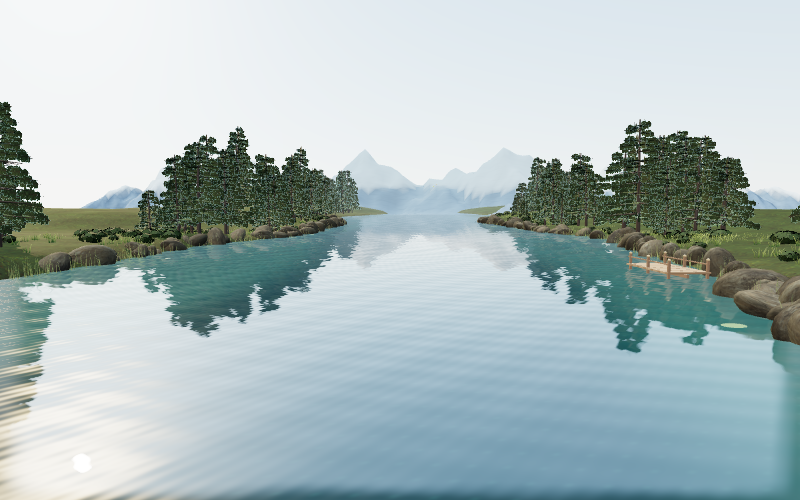
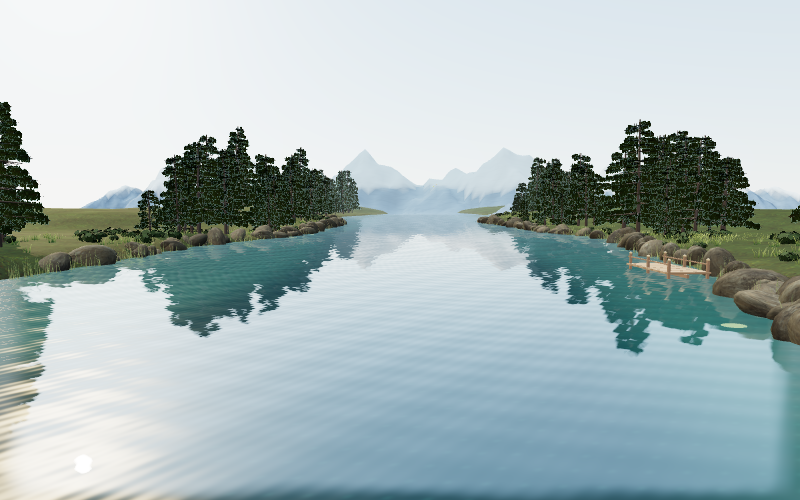
Reduce foliage overdraw and retain desktop profiling evidence hooks

diff --git a/src/scene/terrain.js b/src/scene/terrain.js
@@ -141,7 +141,7 @@ export function makeBarkTexture() {
 }
 
 export function makeNeedleGeometry(seed = 7, distant = false) {
-  // Crossed twig cards sample only the photographed pine twig in the CC0 atlas.
+  // Crossed twig cards sample the spruce spray in the original foliage atlas.
   // Hundreds of short branchlets create a porous volume, rather than long foliage fans.
   const positions = [], uvs = [], indices = [];
   const layers = distant ? 6 : 9, twigs = distant ? 2 : 4;
@@ -236,16 +236,19 @@ export function makeBroadleafTrunkGeometry() {
 export function makeLeafGeometry(drooping = false) {
   const positions = [], uvs = [], indices = [];
   const center = new THREE.Vector3(), normal = new THREE.Vector3(), tangent = new THREE.Vector3(), up = new THREE.Vector3(), yAxis = new THREE.Vector3(0, 1, 0);
-  for (let i = 0; i < 48; i++) {
+  // Each atlas card already contains a complete leafy spray. Layering 48 long
+  // willow cards per cluster shaded the same pixels repeatedly without adding
+  // a useful silhouette; fewer distributed sprays keep the crown readable.
+  for (let i = 0; i < (drooping ? 20 : 32); i++) {
     const a = noise(i, 11) * Math.PI * 2, b = Math.acos(2 * noise(i, 12) - 1);
     normal.set(Math.sin(b) * Math.cos(a), Math.cos(b), Math.sin(b) * Math.sin(a));
     center.copy(normal).multiplyScalar(.4 + noise(i, 13) * .65);
     if (drooping) {
-      center.y = .2 - noise(i, 19) * .9;
+      center.y = .45 - noise(i, 19) * 1.1;
       normal.y = .08; normal.normalize();
     }
-    tangent.crossVectors(normal, yAxis).normalize().multiplyScalar(.34);
-    up.crossVectors(tangent, normal).normalize().multiplyScalar(drooping ? .95 : .48);
+    tangent.crossVectors(normal, yAxis).normalize().multiplyScalar(.24 + noise(i, 23) * .2);
+    up.crossVectors(tangent, normal).normalize().multiplyScalar(drooping ? .55 + noise(i, 27) * .8 : .35 + noise(i, 27) * .25);
     const start = positions.length / 3;
     for (const [x, y] of [[-1, -1], [1, -1], [1, 1], [-1, 1]]) positions.push(center.x + tangent.x * x + up.x * y, center.y + tangent.y * x + up.y * y, center.z + tangent.z * x + up.z * y);
     uvs.push(0, 0, 1, 0, 1, 1, 0, 1); indices.push(start, start + 1, start + 2, start, start + 2, start + 3);

diff --git a/src/scene/Environment.jsx b/src/scene/Environment.jsx
@@ -74,7 +74,9 @@ function Shore({ config, width, low, medium, stage, reducedMotion }) {
     const materials = {
       land: new THREE.MeshStandardMaterial({ color: stage === 'forest-lake' ? '#8bb48b' : '#ffffff', vertexColors: true, map: groundColor, normalMap: groundNormal, normalScale: new THREE.Vector2(.6, .6), roughness: .97, side: THREE.DoubleSide }),
       mountain: new THREE.MeshStandardMaterial({ vertexColors: true, normalMap: rockNormal, normalScale: new THREE.Vector2(.8, .8), roughness: .99 }),
-      needles: new THREE.MeshStandardMaterial({ color: '#d2ddcb', map: config.pine ? needles : leaves, emissiveMap: config.pine ? needles : leaves, emissive: '#779851', emissiveIntensity: .08, alphaTest: .3, alphaToCoverage: true, roughness: .92, side: THREE.DoubleSide }),
+      // Thin matte foliage needs diffuse lighting, not a full per-pixel metal/
+      // roughness + environment BRDF on every overlapping transparent leaf.
+      needles: new THREE.MeshLambertMaterial({ color: '#d2ddcb', map: config.pine ? needles : leaves, emissiveMap: config.pine ? needles : leaves, emissive: '#779851', emissiveIntensity: .08, alphaTest: .3, alphaToCoverage: true, side: THREE.DoubleSide }),
       trunk: new THREE.MeshStandardMaterial({ map: barkColor, normalMap: barkNormal, normalScale: new THREE.Vector2(.55, .55), roughness: .95 }),
       rock: new THREE.MeshStandardMaterial({ color: '#bbbdb4', map: rockColor, normalMap: rockNormal, normalScale: new THREE.Vector2(.8, .8), roughness: .92 }),
       reed: new THREE.MeshStandardMaterial({ color: stage === 'sunset-marsh' ? '#b4a268' : '#7d8951', roughness: .9 }),
